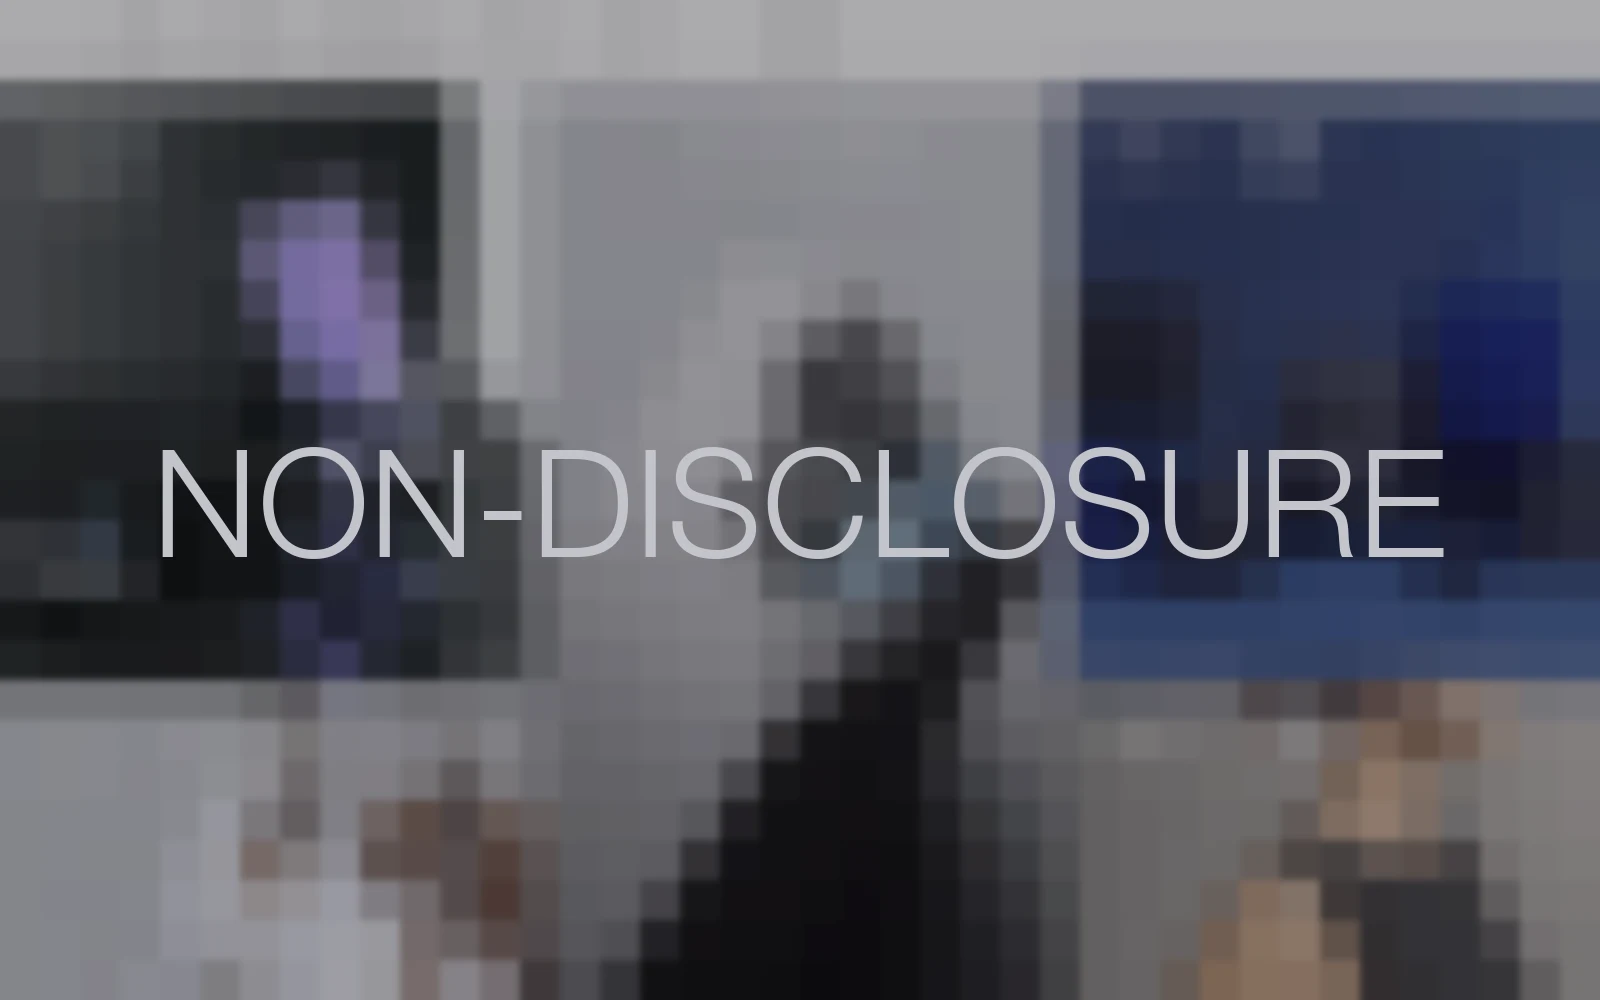
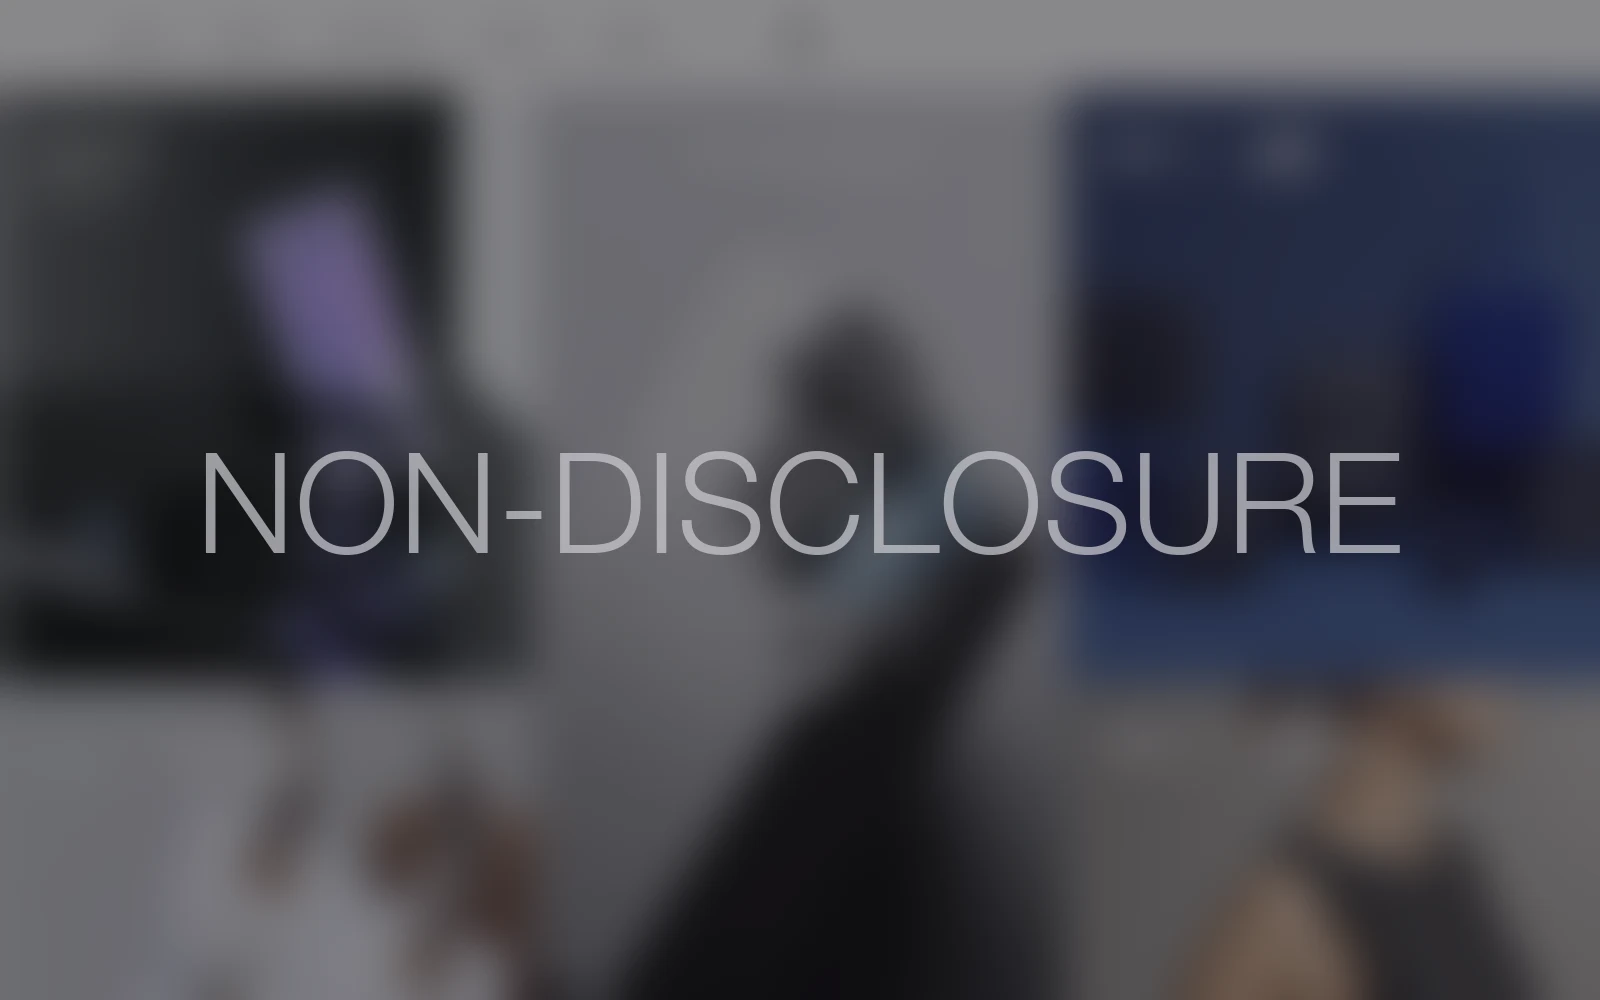
NIO: blurred (not pixelated) NDA screens, larger laptops fading out at the bottom, NIO photo as card cover; Vegan Kitchen: home indicator anchored to each screen, softer grey

diff --git a/app/work/nio/page.tsx b/app/work/nio/page.tsx
@@ -80,17 +80,21 @@ export default function NioPage() {
 
             {/* Three laptops: the middle one larger and higher, the sides smaller and lower; all fade out at the bottom */}
             <Reveal className="relative mt-20 md:mt-24">
-              <div className="relative mx-auto flex max-w-[1180px] items-start justify-center [mask-image:linear-gradient(180deg,#000_70%,transparent_100%)]">
-                <Laptop src={`${N}/nda-2.webp`} alt="NIO Power page, blurred under NDA" className="relative z-10 mt-[12%] w-[34%] -mr-[6%] opacity-90" />
-                <Laptop src={`${N}/nda-1.webp`} alt="NIO ET9 interior page, blurred under NDA" className="relative z-20 w-[48%]" />
-                <Laptop src={`${N}/nda-3.webp`} alt="NIO Life page, blurred under NDA" className="relative z-10 mt-[12%] w-[34%] -ml-[6%] opacity-90" />
+              {/* soft violet glow behind the laptops; they fade out at the bottom like the Vegan Kitchen hero */}
+              <div aria-hidden className="pointer-events-none absolute inset-x-0 top-[8%] mx-auto h-[70%] max-w-[1100px] rounded-full bg-[#5b46a8]/30 blur-[110px]" />
+              <div className="relative -mx-gutter overflow-hidden [mask-image:linear-gradient(180deg,#000_42%,transparent_94%)] md:mx-0">
+                <div className="relative mx-auto flex max-w-[1400px] items-start justify-center">
+                  <Laptop src={`${N}/nda-2.webp`} alt="NIO Power page, blurred under NDA" className="relative z-10 mt-[9%] w-[40%] -mr-[8%]" />
+                  <Laptop src={`${N}/nda-1.webp`} alt="NIO ET9 interior page, blurred under NDA" className="relative z-20 w-[58%]" />
+                  <Laptop src={`${N}/nda-3.webp`} alt="NIO Life page, blurred under NDA" className="relative z-10 mt-[9%] w-[40%] -ml-[8%]" />
+                </div>
               </div>
             </Reveal>
           </Container>
         </section>
 
         {/* TIMELINE / SCOPE / TEAM */}
-        <section className="pb-24 pt-10 md:pb-32">
+        <section className="pb-24 pt-2 md:pb-32">
           <Container>
             <Reveal className="mx-auto grid max-w-[1180px] gap-4 md:grid-cols-3">
               <InfoCard label="Timeline">

diff --git a/components/case/vegan-kit.tsx b/components/case/vegan-kit.tsx
@@ -19,11 +19,13 @@ export function Shot({ src, alt, className, style, frame = false }: { src: strin
   if (!frame) {
     // Bare screen: the cut-out already has rounded corners; just a soft shadow.
     return (
-      <div className={cn("relative shrink-0", className)} style={style}>
-        {/* eslint-disable-next-line @next/next/no-img-element */}
-        <img src={src} alt={alt} width={780} height={1695} loading="lazy" draggable={false} className="block h-auto w-full select-none drop-shadow-[0_18px_28px_rgba(0,0,0,0.14)]" />
-        {/* iPhone home indicator */}
-        <span aria-hidden className="pointer-events-none absolute bottom-[0.45%] left-1/2 h-[0.4%] w-[34%] -translate-x-1/2 rounded-full bg-[#111]" />
+      <div className={cn("shrink-0 self-start", className)} style={style}>
+        <div className="relative">
+          {/* eslint-disable-next-line @next/next/no-img-element */}
+          <img src={src} alt={alt} width={780} height={1695} loading="lazy" draggable={false} className="block h-auto w-full select-none drop-shadow-[0_18px_28px_rgba(0,0,0,0.14)]" />
+          {/* iPhone home indicator, anchored to the screen itself */}
+          <span aria-hidden className="pointer-events-none absolute bottom-[0.6%] left-1/2 h-[0.4%] w-[34%] -translate-x-1/2 rounded-full bg-[#4a4a4a]" />
+        </div>
       </div>
     );
   }
@@ -47,7 +49,7 @@ export function Shot({ src, alt, className, style, frame = false }: { src: strin
             className="block h-auto w-full select-none"
             style={{ borderRadius: "10.3cqw" }}
           />
-          <span aria-hidden className="pointer-events-none absolute left-1/2 h-[0.4%] w-[32%] -translate-x-1/2 rounded-full bg-[#111]" style={{ bottom: "calc(1.44cqw + 0.45%)" }} />
+          <span aria-hidden className="pointer-events-none absolute left-1/2 h-[0.4%] w-[32%] -translate-x-1/2 rounded-full bg-[#4a4a4a]" style={{ bottom: "calc(1.44cqw + 0.6%)" }} />
         </div>
       </div>
     </div>
